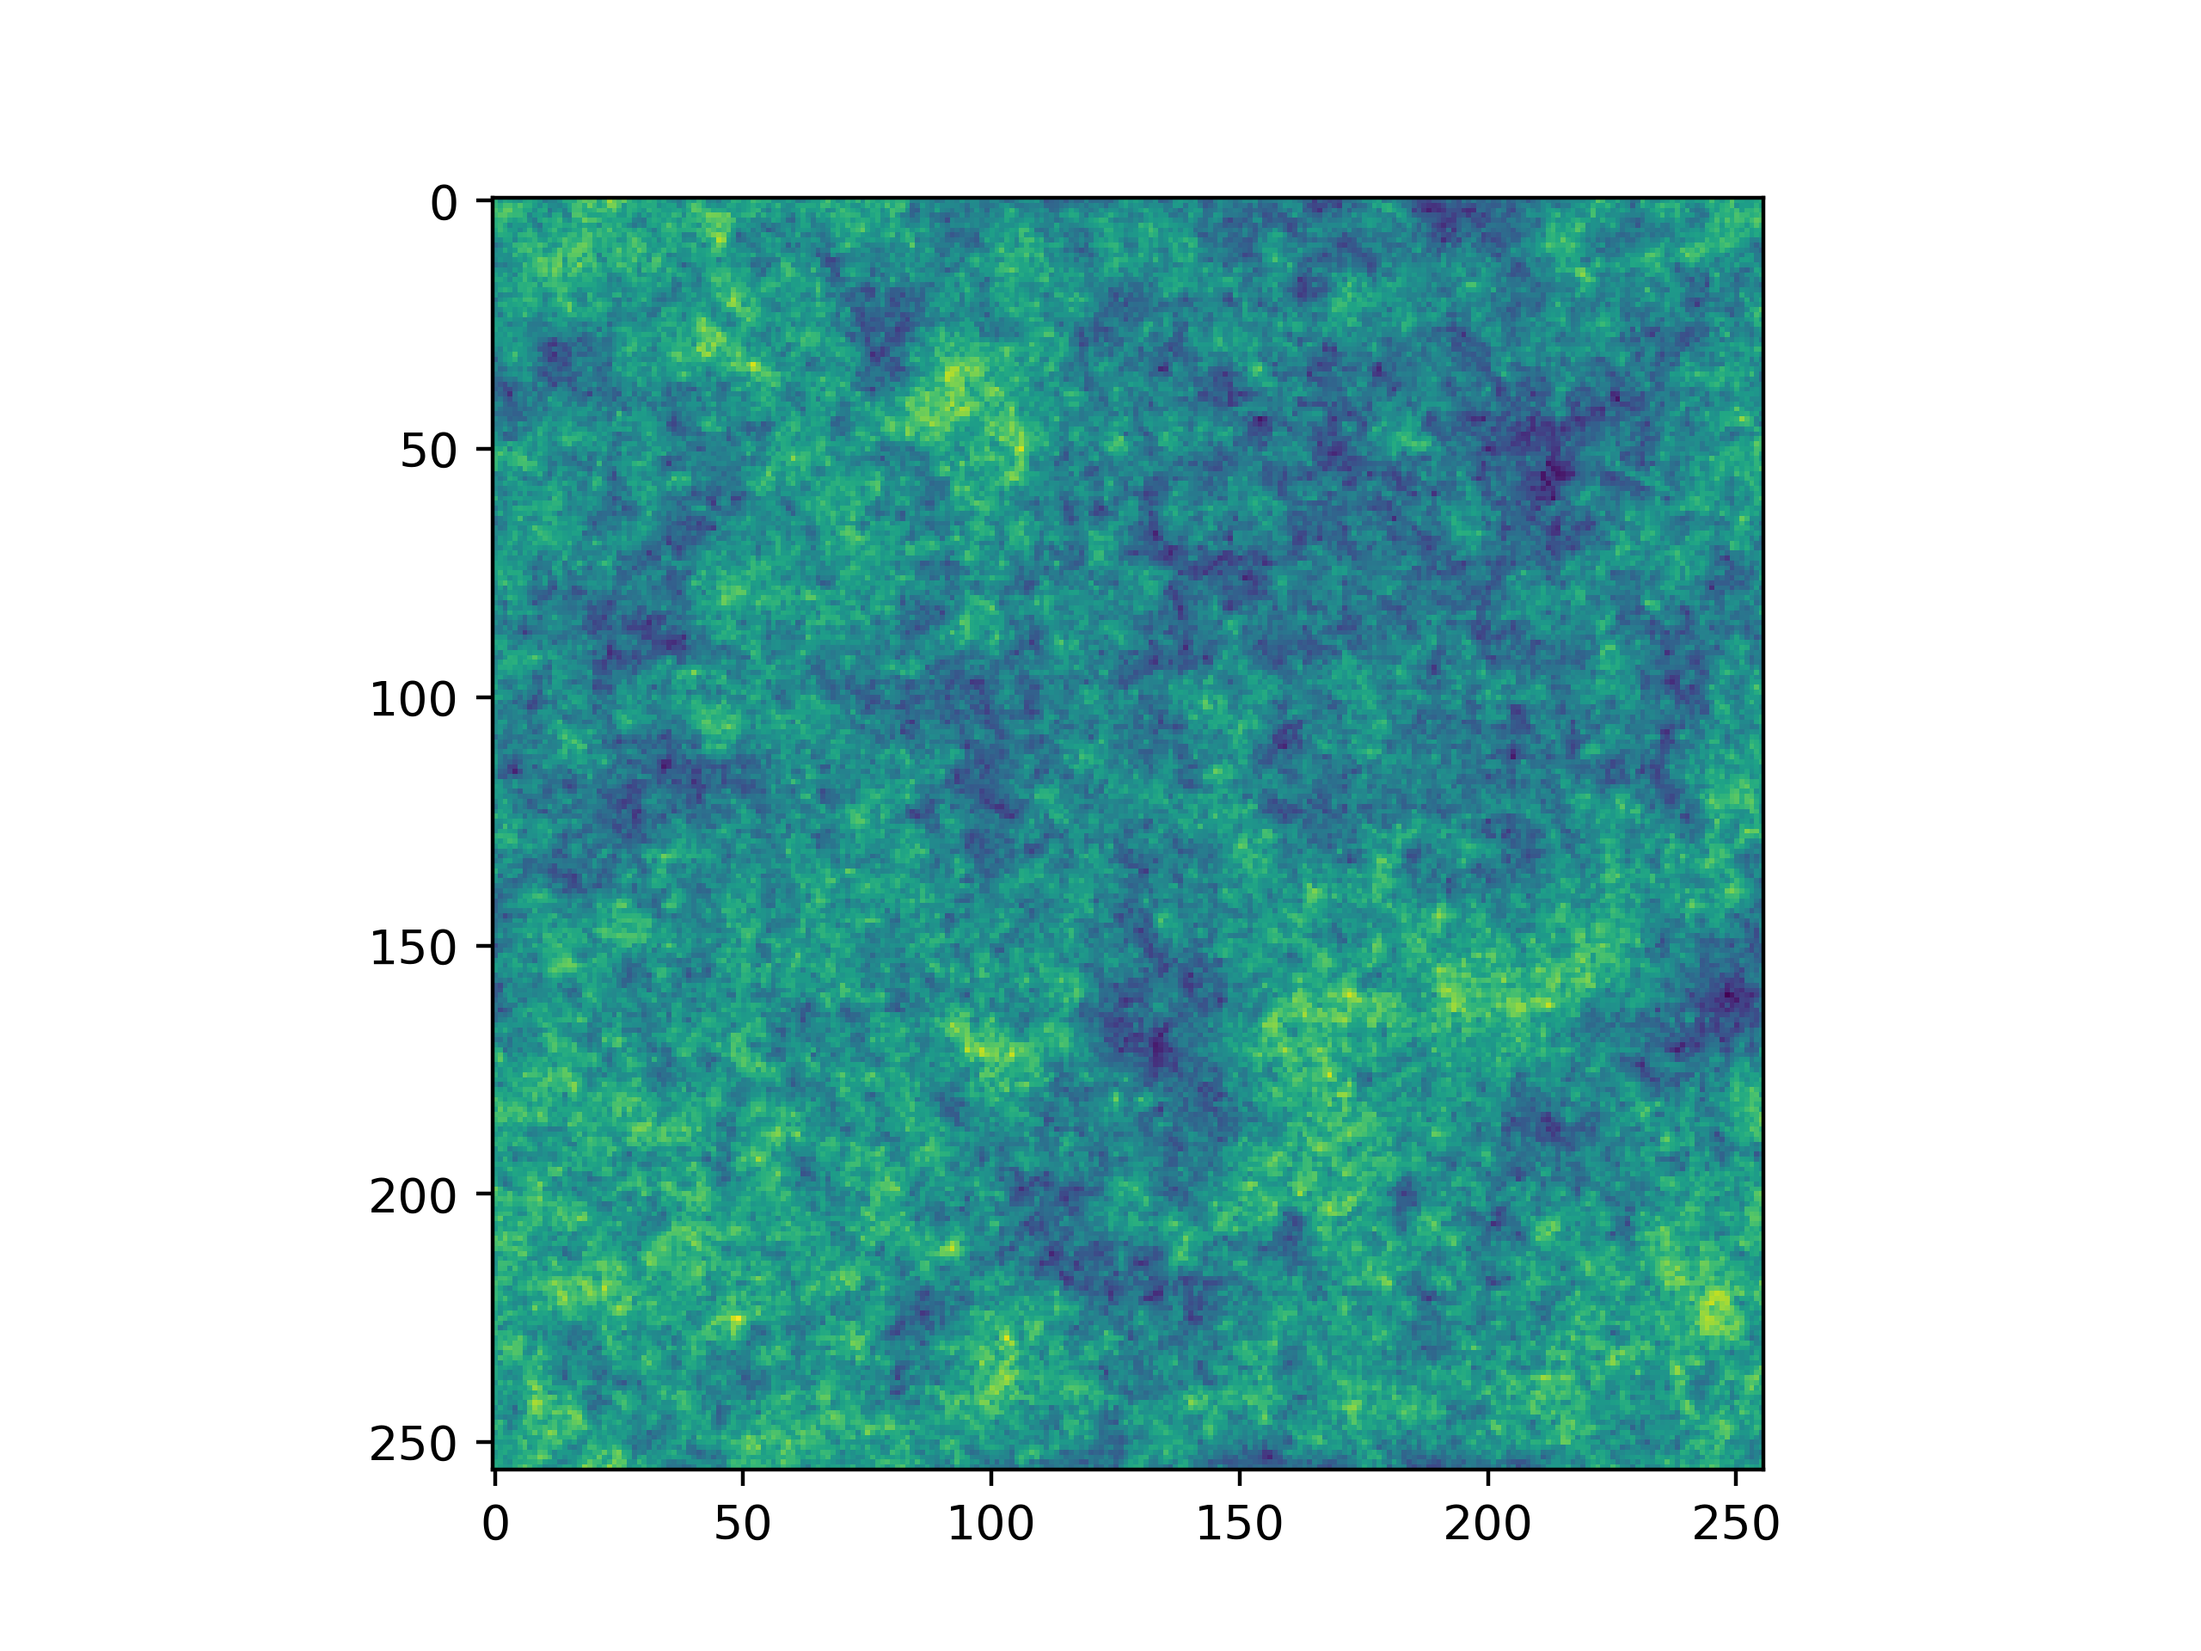
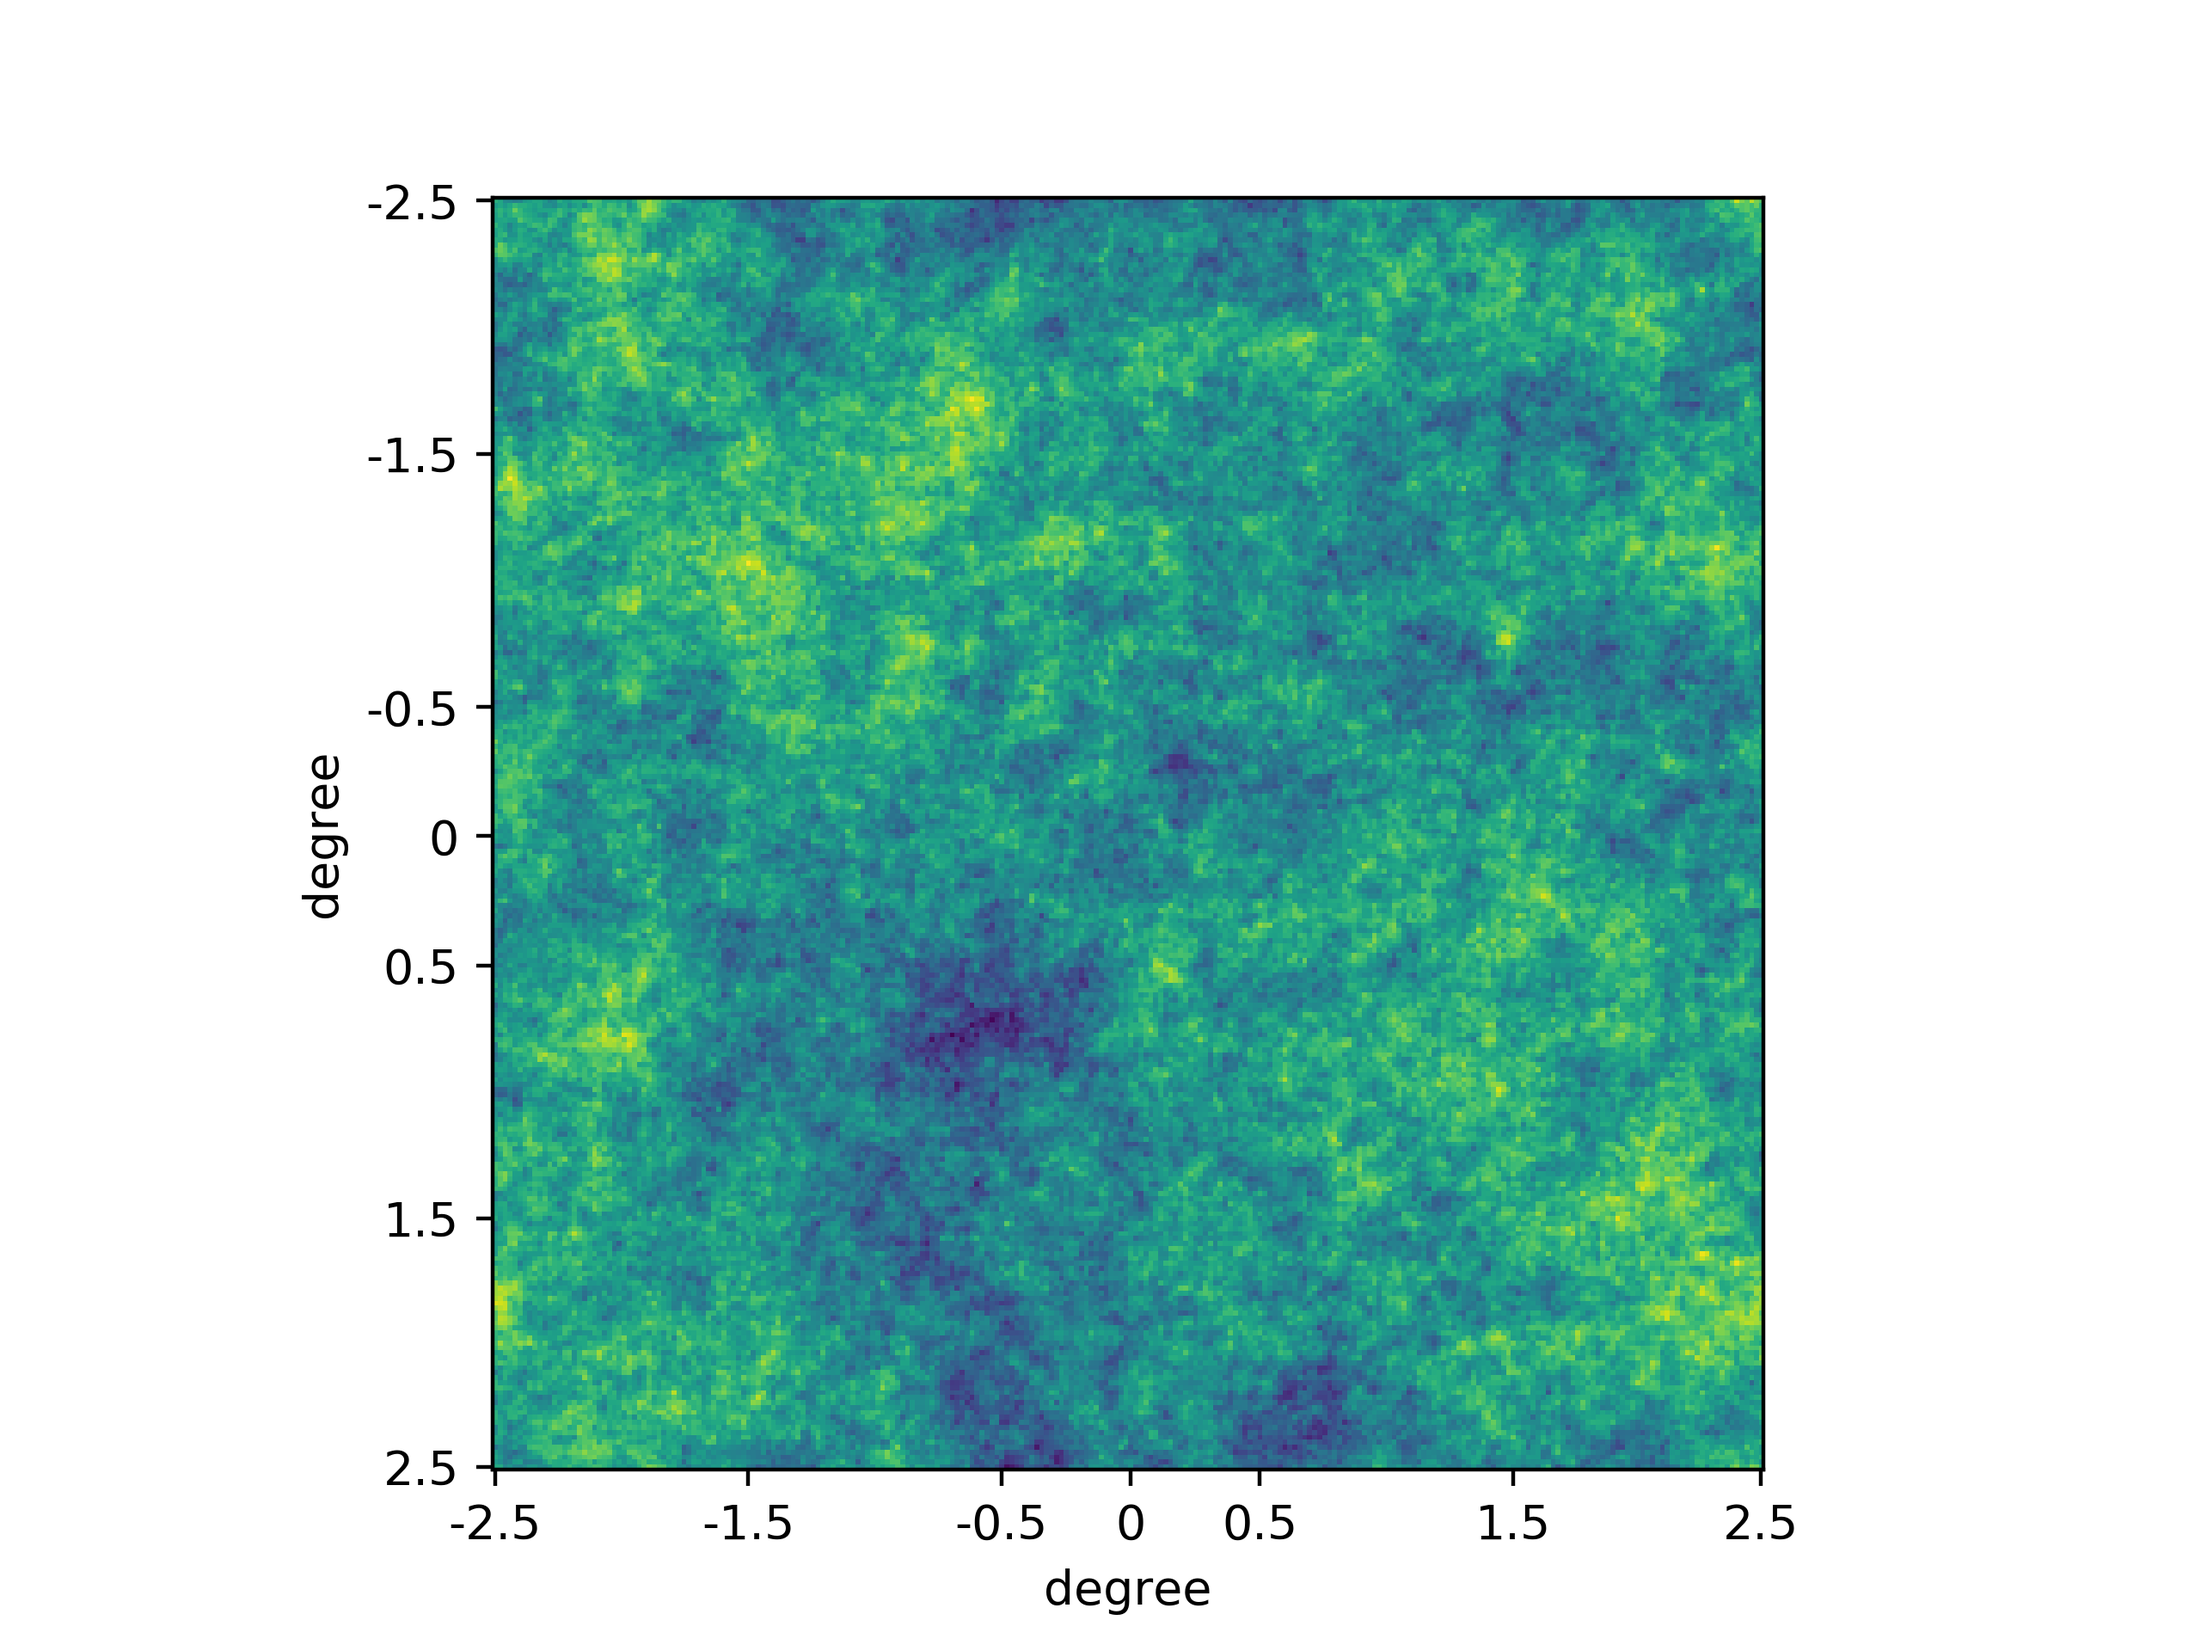
28.11.20 chi_statistics

Changed region(s): [[0.1562, 0.0938, 0.8125, 0.9688], [0.125, 0.4688, 0.1562, 0.5625]]

diff --git a/Simulation_first.py b/Simulation_first.py
@@ -52,8 +52,8 @@ def deexitation_crosssection(t_k):
     else:
         print('T_K is out of scope for the deexcitation fraction')
         return 0
-#redshift probing
-z = 100
+#redshift interval probing #TODO: average all redshift dependent quantities over the redshift bin
+z = 30
 #redshift string formation
 z_i = 1000
 #thickness redshift bin
@@ -72,12 +72,15 @@ nback=1.9e-7 *(1.+z)**3
 xc = 4*nback*deexitation_crosssection(T_K)* 0.068/(2.85e-15 *T_gamma)
 #wake brightness temperature [K]
 T_b = 0.07* xc/(xc+1.)*(1-T_gamma/T_K)*np.sqrt(1.+z)
-#fraction of baryonc mass comprised of HI
-xHI = 0 #TODO: find out xHI
+#fraction of baryonc mass comprised of HI. Given that we consider redshifts of the dark ages, we can assume that all the
+#hydrogen of the universe is neutral and we assume the mass fraction of baryoni is:
+xHI = 0.75
 #background temperature [K] (assume Omega_b, h, Omega_Lambda, Omega_m as in arXiv: 1405.1452[they use planck collaboration 2013b best fit])
-T_back = 0.19055e-3 * (0.049*0.67*(1.+z)**2 * xHI)/np.sqrt(0.316*(1.+z)**3 + 0.684)
-#TODO:Average over a redshift bin
+T_back = (0.19055e-3) * (0.049*0.67*(1.+z)**2 * xHI)/np.sqrt(0.267*(1.+z)**3 + 0.684)
 
+print(T_b)
+print(xc)
+print(T_back)
 
 #define quantities of noise and the patch of the sky
 #patch properties
@@ -85,13 +88,15 @@ patch_size = 256
 patch_angle = 5. #in degree
 angle_per_pixel = patch_angle/patch_size
 #wake properties
-wake_brightness = 1
+wake_brightness = T_b
 wake_size_angle = 1 #in degree
 shift_wake_angle = [0, 0]
-#Gaussian noise properties
-sigma_noise = 1
-mean_noise = 1
-power_law = -2.
+#Gaussian noise properties, alpha noise according to arXiv:2010.15843
+alpha_noise = 0.0475
+sigma_noise = T_back*alpha_noise
+mean_noise = T_back
+power_law = 0.0
+
 
 #define function for a string signal (assuming it is about wake_size_angle deg x wake_size_angle deg in size)
 def stringwake_PS(size, intensity, anglewake, angleperpixel, shift):
@@ -101,8 +106,6 @@ def stringwake_PS(size, intensity, anglewake, angleperpixel, shift):
     shift_pixel[0] = int(np.round(shift[0]/angleperpixel))
     shift_pixel[1] = int(np.round(shift[1]/angleperpixel))
     wakesize_pixel = int(np.round(anglewake/angleperpixel))
-    print(size/2+shift_pixel[0]-wakesize_pixel/2)
-    print(size/2+shift_pixel[0]+wakesize_pixel/2+1)
     for i in range(int(size/2+shift_pixel[0]-wakesize_pixel/2), int(size/2+shift_pixel[0]+wakesize_pixel/2+1)):#Todoo: make sure its an integer is not necessary because integer division
         for j in range(int(size/2+shift_pixel[1]-wakesize_pixel/2), int(size/2+shift_pixel[1]+wakesize_pixel/2+1)):
             patch[i, j] = intensity
@@ -119,37 +122,78 @@ def stringwake_PS(size, intensity, anglewake, angleperpixel, shift):
 
 
 #define function that generates a gaussian random field of size patch_size
-def gaussian_random_field(Pk = lambda k : k**-3.0, size = 100, sigma = 1, mean = 0, angleperpixel = 1 ):
+def gaussian_random_field(Pk = lambda k : k**-.0, size = 100, sigma = 1, mean = 0, alpha = -1.0 ):
     #create a two dimensional projected power spectrum
     def Pk2(kx, ky):
-        if kx == 0 and ky == 0:
+        if kx == 0 and ky == 0 and alpha != 0.:
             return 0.0
+        if kx == 0 and ky == 0 and alpha == 0.:
+            return 1.0
         return np.sqrt(Pk(np.sqrt(kx**2 + ky**2)))
     #create the noise
-    noise = np.fft.fft2(np.random.normal(mean, sigma, size = (size, size)))
+    noise_real = np.random.normal(mean, sigma, size = (size, size))
+    noise = np.fft.fft2(noise_real)
     #calculate its amplitude. Note that in this form the k modes are defined as in units [1/degree]
     amplitude = np.zeros((size, size))
     for i, kx in enumerate(np.fft.fftfreq(size, angle_per_pixel*2*math.pi)):
         for j, ky in enumerate(np.fft.fftfreq(size, angle_per_pixel*2*math.pi)):
             amplitude[i, j] = Pk2(kx, ky)
+    return np.fft.ifft2(noise * amplitude)
+
+
+def gaussian_random_field_with_signal(Pk = lambda k : k**-3.0, size = 100, sigma = 1, mean = 0, angleperpixel = 1. , alpha =-1.0):
+    #create a two dimensional projected power spectrum
+    def Pk2(kx, ky):
+        if kx == 0 and ky == 0 and alpha != 0.:
+            return 0.0
+        if kx == 0 and ky == 0 and alpha == 0.:
+            return 1.0
+        return np.sqrt(Pk(np.sqrt(kx**2 + ky**2)))
+    #create the noise
+    noise = np.fft.fft2(np.random.normal(mean, sigma, size = (size, size)))
+    #calculate its amplitude. Note that in this form the k modes are defined as in units [1/degree]
+    amplitude = np.zeros((size, size))
+    for i, kx in enumerate(np.fft.fftfreq(size, angleperpixel*2*math.pi)):
+        for j, ky in enumerate(np.fft.fftfreq(size, angleperpixel*2*math.pi)):
+            amplitude[i, j] = Pk2(kx, ky)
     #add your signal
     return np.fft.ifft2(noise * amplitude + np.fft.fft2(stringwake_PS(patch_size, wake_brightness, wake_size_angle,
-                                                                   angle_per_pixel, shift_wake_angle)))
+                                                                      angleperpixel, shift_wake_angle)))
+
 
 #define a function for your chi^2 -statistics
-def chi_square():
-    return 0
+def chi_square(size_sample, data_sample, mean_sample, sigma_sample):
+    chi = 0
+    for i in range(0, size_sample):
+        for j in range(0, size_sample):
+            chi = chi + (data_sample[i][j]-mean_sample)**2/(sigma_sample)**2
+    return chi/(size_sample)**2
+
+#number of sample
+n = 3
+memory_chi = np.zeros(n)
+memory_chi_signal =np.zeros(n)
+for k in range(0, n):
+    alpha_fun = power_law
+    out = gaussian_random_field(Pk=lambda k: k ** alpha_fun, size=patch_size, sigma=sigma_noise, mean=mean_noise,
+                                alpha=alpha_fun)
+    out1 = gaussian_random_field_with_signal(Pk=lambda k: k ** alpha_fun, size=patch_size, sigma=sigma_noise, mean=mean_noise,
+                                angleperpixel=angle_per_pixel)
+    memory_chi[k] = chi_square(patch_size, out.real, mean_noise, sigma_noise)
+    memory_chi_signal[k] = chi_square(patch_size, out1.real, mean_noise, sigma_noise)
+    print(memory_chi[k])
+    print(memory_chi_signal[k])
 
 #Plot the GRF map for a given size for different power spectra
-for alpha in [-4.0, -3.0, -0.0]:
-    out = gaussian_random_field(Pk = lambda k: k**alpha, size = patch_size, sigma = sigma_noise, mean = mean_noise, angleperpixel = angle_per_pixel)
-    plt.figure()
-    plt.xlabel('degree')
-    plt.ylabel('degree')
-    my_ticks = [-2.5, -1.5, -0.5, 0, 0.5, 1.5, 2.5]
-    plt.xticks([0, 51, 102, 128, 154, 205, 255], my_ticks)
-    plt.yticks([0, 51, 102, 128, 154, 205, 255], my_ticks)
-    plt.imshow(out.real, interpolation='none')
-    plt.show()
+#for alpha in [-4.0, -3.0, -2.0, -0.0]:
+#    out = gaussian_random_field(Pk = lambda k: k**alpha, size = patch_size, sigma = sigma_noise, mean = mean_noise, angleperpixel = angle_per_pixel)
+    #plt.figure()
+    #plt.xlabel('degree')
+    #plt.ylabel('degree')
+    #my_ticks = [-2.5, -1.5, -0.5, 0, 0.5, 1.5, 2.5]
+    #plt.xticks([0, 51, 102, 128, 154, 205, 255], my_ticks)
+    #plt.yticks([0, 51, 102, 128, 154, 205, 255], my_ticks)
+    #plt.imshow(out.real, interpolation='none')
+    #plt.show()
     #plt.savefig('test_GRF_with'+str(np.abs(alpha))+'.png', dpi=400)
 
